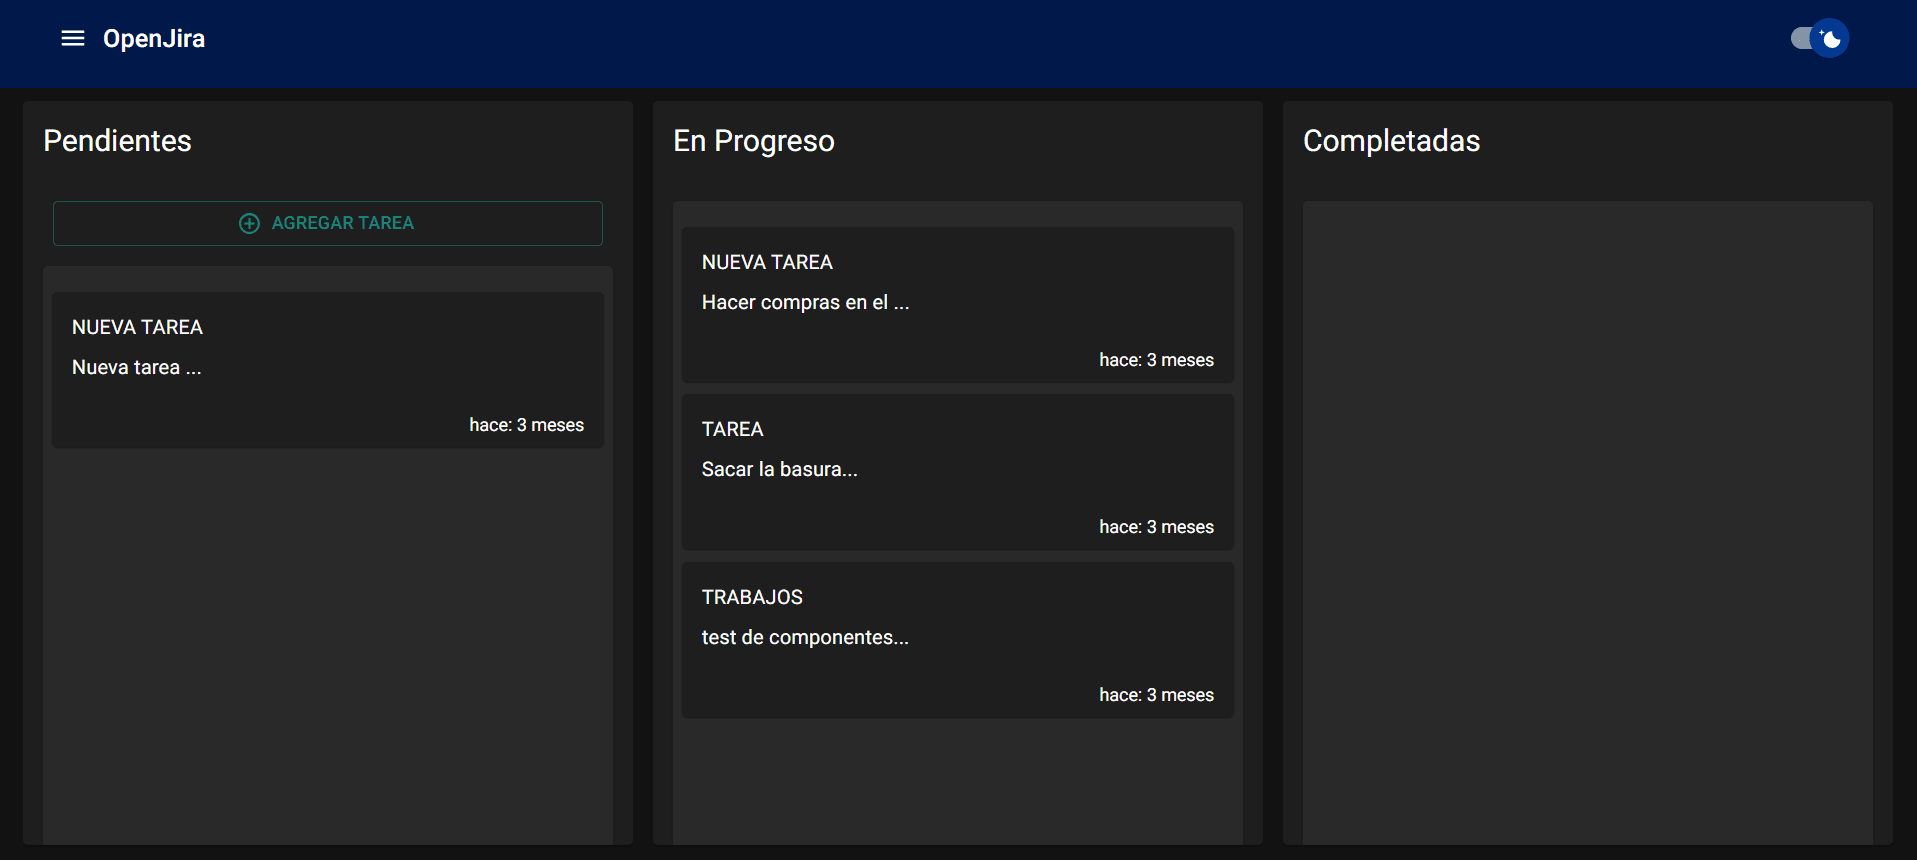
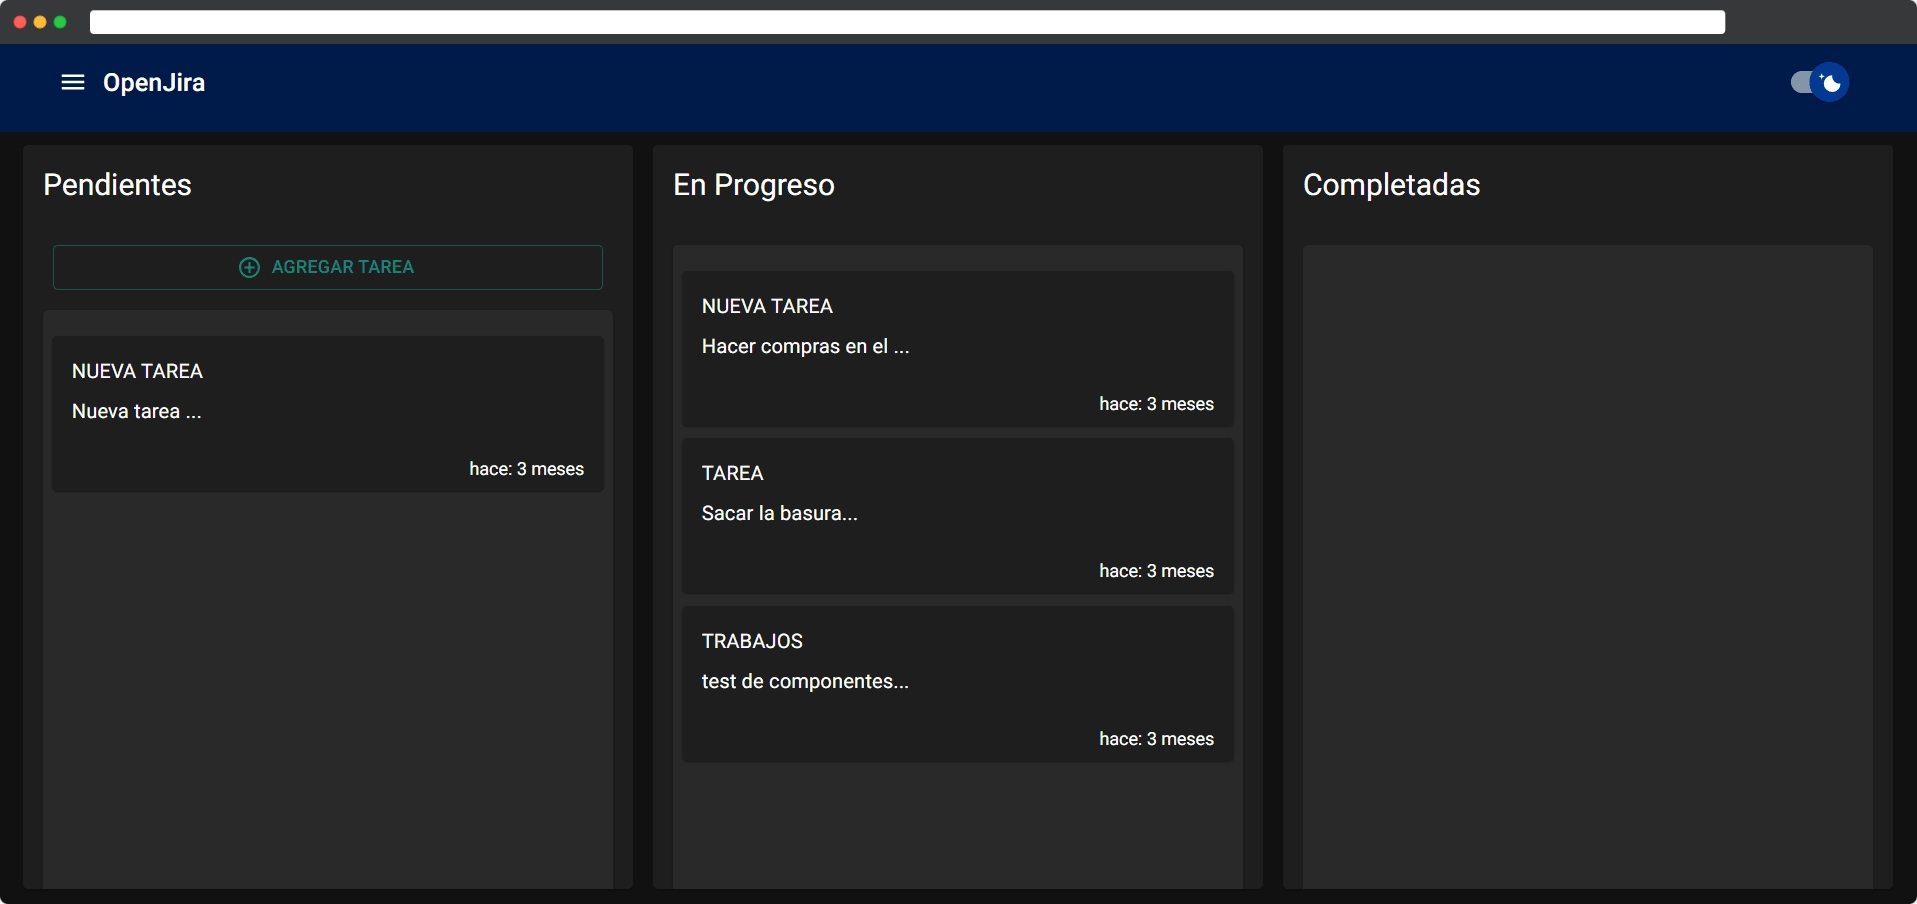
images updated

diff --git a/styles.css b/styles.css
@@ -281,7 +281,7 @@ a {
 .carta {
   position: relative;
   cursor: pointer;
-  width: 600px;
+  width: 568px;
   height: 270px;
 }
 
@@ -290,7 +290,7 @@ a {
   width: 100%;
   height: 100%;
   -webkit-backface-visibility: hidden;
-  border-radius: 10px;
+  border-radius: 3px;
   overflow: hidden;
   transition: 0.5s;
 }
@@ -374,7 +374,7 @@ a {
 
 @media (max-width: 768px) {
   .carta {
-    width: 350px;
+    width: 337px;
     height: 160px;
   }
 
